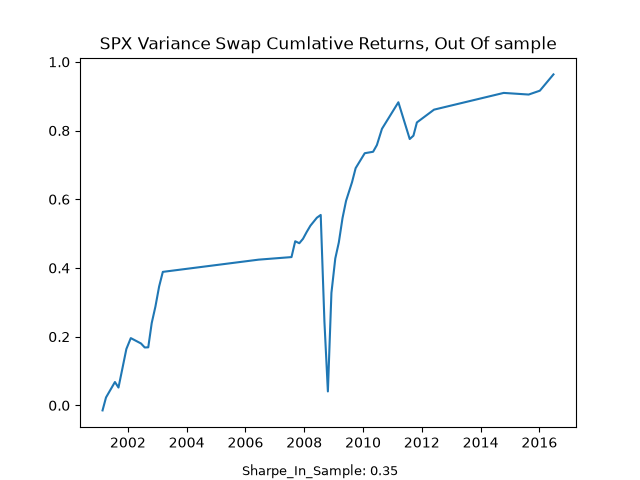
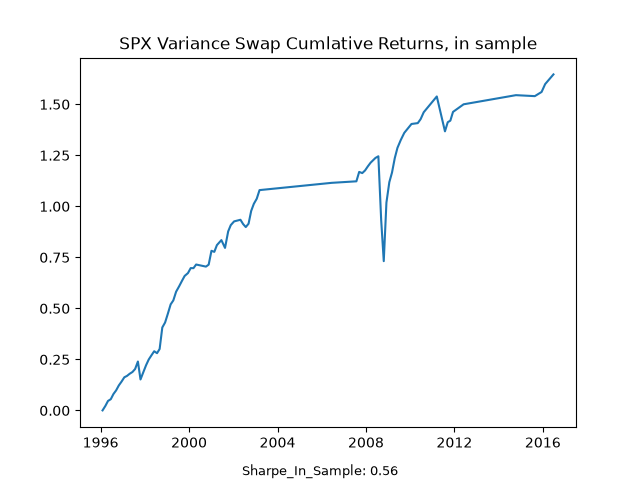
Update variance swap plots and README

diff --git a/Variance_swap_trading/notebooks/backtest.py b/Variance_swap_trading/notebooks/backtest.py
@@ -4,9 +4,9 @@ import yfinance as yf
 import numpy as np
 
 
-spx = yf.download("^GSPC", start="2000-01-01", end="2026-01-01")
+spx = yf.download("^GSPC", start="1995-01-01", end="2026-08-01")
 
-vix = yf.download("^VIX", start="2000-01-01", end="2026-01-01")
+vix = yf.download("^VIX", start="1995-01-01", end="2026-08-01")
 
 
 prices_spx = spx["Close"].squeeze()
@@ -24,7 +24,12 @@ window = 21
 
 daily_variance_forecast = log_return_daily.rolling(window).var()
 
-forecast_30d_variance = (252/window) * daily_variance_forecast
+prev_15_day_var = log_return_daily.rolling(15).var() *252
+prev_30_day_var = log_return_daily.rolling(30).var() *252
+prev_60_day_var = log_return_daily.rolling (60).var() *252
+prev_90_day_var = log_return_daily.rolling(90).var() *252
+
+forecast_variance = 0.5*prev_15_day_var + 0.3*prev_30_day_var + 0.15*prev_60_day_var + 0.05*prev_90_day_var
 
 
 
@@ -40,7 +45,7 @@ forecast_30d_variance = (252/window) * daily_variance_forecast
 
 
 
-vrp = Kvar - forecast_30d_variance 
+vrp = Kvar - forecast_variance 
 # orginally made a look forward error here using the total 
 #std and mean for the whole data set when should on rolling baiss
 
@@ -53,8 +58,8 @@ roll_std = vrp.expanding(min_periods=252).std()
 
 vrp_z = ((vrp - roll_mean) / roll_std).dropna() 
 
-vrp_z = vrp_z[vrp_z.index < "2018-01-01"]      # in-sample
-#vrp_z = vrp_z[vrp_z.index >= "2018-01-01"]   # out-of-sample
+#vrp_z = vrp_z[(vrp_z.index >= "2018-01-01") &]    
+vrp_z = vrp_z[vrp_z.index >= "2018-01-01"]   # out-of-sample
 
 print(vrp_z)
 
@@ -139,9 +144,9 @@ print(sharpe_annual)
 
 plt.plot(cumulative_payoff)
 
-plt.title("SPX Variance Swap Cumlative Returns, Out Of sample")
+plt.title("Adapted Vol Forecast SPX VS returns")
 plt.figtext(0.5, 0.01, f"Sharpe_In_Sample: {sharpe_annual:.2f}", ha="center", fontsize=9)
-plt.savefig("Variance_swap_trading/Figures/Cumlative_Variance_Swap_Return_In_Sample")
+plt.savefig("Variance_swap_trading/Figures/Adapted_vol_forecast_SPX_returns_OFS", dpi= 65)
 plt.close()
 
 

diff --git a/README.md b/README.md
@@ -1,21 +1,7 @@
 # Trading-Volatility
 
-
-
-
-This project is involved in explaining and testing some of the trading strategies listed in (Z. Kakushadze and J.A. Serur. 151 Trading Strategies). I have always been interested in the idea of non directional trading, having zero exposure to the underlying. The strategies I focus on here involve trading volaltity, this means taking a position on future volatility,
-
-the strategies I address are:
-- Volatility trading with variance swaps
-- Volatility risk premium trading, gamma hedging
-
+This project is involved in explaining and testing some of the trading strategies listed in (Z. Kakushadze and J.A. Serur. 151 Trading Strategies). I have always been interested in risk premia investing, I have now got to the technical level in my programming and mathematics to give a basic outline and create a simple backtest for one of the volatility trading strategies. In the future as I develop my techincal skills I hope to dive deeper, explaining and breaking down the replication stratergy for the variance swaps. Some other stratergies I hope to adress in the future is trading volatility, specifically the volatility risk premium(VRP), using gamma hedging. 
 
  ## [Variance Swaps](<Variance_swap_trading/variance_swap.md>)  
 
-The thinking behind this backtest is that the VIX methodology is similar, using a weighted strip of OTM options to come up with a 'fair strike'. 
-
-
-
- ## [Trading VRP with gamma hedging](<VRP_gamma_hedging/Introduction_to_GH.md>)  
-
- I am currently working on MIT OCW Topics In Mathematics With applications In Finance, to teach me the level of probability and stochastic calculas required to work around this topic. I will update this page when I start my research, into this 
+Here I backtest a variance swap strategy by attempting to use vix as a estimator of the 'fair strike', using a z-score of the Volatility Risk Premium, the premium investors are willing to pay to avoid negative returns, seen through investors willing to pay high put prices pushing up implied volatility, creating this idea we are hoping to exploit 'expensive' volatility. I explain the theory behind variance swaps, in the link above, and then in [Backtest](<Variance_swap_trading/backtest.md>) I walk through my signal explaining my logic and code, finallly showing the results of the out of sample backtesting. 

diff --git a/Variance_swap_trading/Conculsions.md b/Variance_swap_trading/Conculsions.md
@@ -1,9 +1,41 @@
-## Conculsions
+# Conculsions
+
+## Variance swaps are short 'vol of vol'
+As I point out in [Backtest](<Variance_swap_trading/backtest.md>) for the out of sample test, the sharpe ratio for the whole period is 0.08, However, when we remove the large drawdown period of 2020 our sharpe ratio rises to 1. This shows us that when we take short volatility postions there are large tail risks, because of the fact variance is 'short vol of vol', We can show this by doing some simple calculas:
+$$
+P(T) = N \times (K_{\text{var}} - v(T) ) 
+$$
+ This is the payoff of a short variance swap 
+
+$$
+\frac{dP(T)}{d\sigma} = -2N\sigma
+$$
+$$
+\frac{d^2P(T)}{d\sigma^2} = -2N
+$$
+We can see that changes in the volatility are negative for the payoff. 
+
+## Chaning the Volatility Forecast
+
+When we change our variance forecast to be a weighted average of the previous rolling 15,30,60,90 annulsied volatilities. we can improve our sharpe ratio, from 0.08 to 0.19
+
+```python
+prev_15_day_var = log_return_daily.rolling(15).var() *252
+prev_30_day_var = log_return_daily.rolling(30).var() *252
+prev_60_day_var = log_return_daily.rolling (60).var() *252
+prev_90_day_var = log_return_daily.rolling(90).var() *252
+
+forecast_variance = 0.5*prev_15_day_var + 0.3*prev_30_day_var + 0.15*prev_60_day_var + 0.05*prev_90_day_var
+```
+
+![alt text](Figures/Adapted_vol_forecast_SPX_returns_OFS.png)
 
 
-There is large overfitting 
+In the future It would be intresting to test these methods against eachother, seeing which creates the best forecast for volatility. 
 
-![Nasdaq Variance Swap Payoff](Figures/Cumlative_Variance_Swap_Return_Out_Of_Sample.png) 
+## Tech Stocks seem to have a higher VRP
 
-Compare the sharpe ratios of the nasdaq and spx, for some cross asset validation.
 
+![alt text](Figures/nasdaq_variance_swap_return.png)![alt text](Figures/Adapted_vol_forecast_SPX_returns_OFS.png)
+
+Here The returns of VRP star

diff --git a/Variance_swap_trading/backtest.md b/Variance_swap_trading/backtest.md
@@ -128,9 +128,11 @@ positions_series = pd.Series(
     name="Position"
 )
 ```
-# so entry record is important as it gives the start date of the swap
-# and whether we are shorting or going long
+# Make a record of date entered swap
 
+Here we make a record of the dat entered the swap and then calucated the next 30 realised vol,  
+
+```python
 realised_var_30d = {}
 
 for date in entry_record.index:
@@ -165,6 +167,7 @@ payoff = position * (
 )
 
 var_swap_return = 1 + payoff
+```
 
 # Stratergy Return per swap
 
@@ -219,8 +222,12 @@ plt.savefig(
 )
 plt.close()
 ```
-![Variance Swap Payoff](Figures/Cumlative_Variance_Swap_Return_In_Sample.png) ![Nasdaq Variance Swap Payoff](Figures/Cumlative_Variance_Swap_Return_Out_Of_Sample.png)
+![Variance Swap Payoff](Figures/Cumlative_Variance_Swap_Return_In_Sample.png) ![Out of sample payoff](Figures/Cumlative_Variance_Swap_Return_Out_Of_Sample.png)
 
+
+The large reduction in sharpe, can possilby be explained by reduced underfitting and large expsoure to tail risk. The large drawdowns across equites causes a change in volaility, as variance swaps are short 'vol of vol'. We see this when we exculde the year 2020 we get a sharpe ratio of 1. 
+
+![Nasdaq](Figures/Figures/variance_swap_return_nasdaq.png)
 
 
 ## References

diff --git a/Variance_swap_trading/variance_swap.md b/Variance_swap_trading/variance_swap.md
@@ -92,9 +92,9 @@ so going back to our formula higher option prices leads to a higher $ K_{\text{v
 So finally our method will be using, using VIX as a proxy. The vix uses the same excat method as Demeterfi, Derman, Kamal & Zou. However, Vix just square roots the solution then mutiplys it by 100. As I do have access to historical VIX data and S&P 500. Now we are in a postion we can estimate values for $ K_{\text{var}} $ and $ v(T) $. The only difference is VIX uses the CBOE interplotion method.
 
 
-## Backtest
+## [Backtest](<backtest.md>)
 
-The maths outlined above leds us to us VIX as a propety $ K_{\text{var}} $
+The maths outlined above leds us to us VIX as a propety $ K_{\text{var}} $ 
 
 
 ## References
